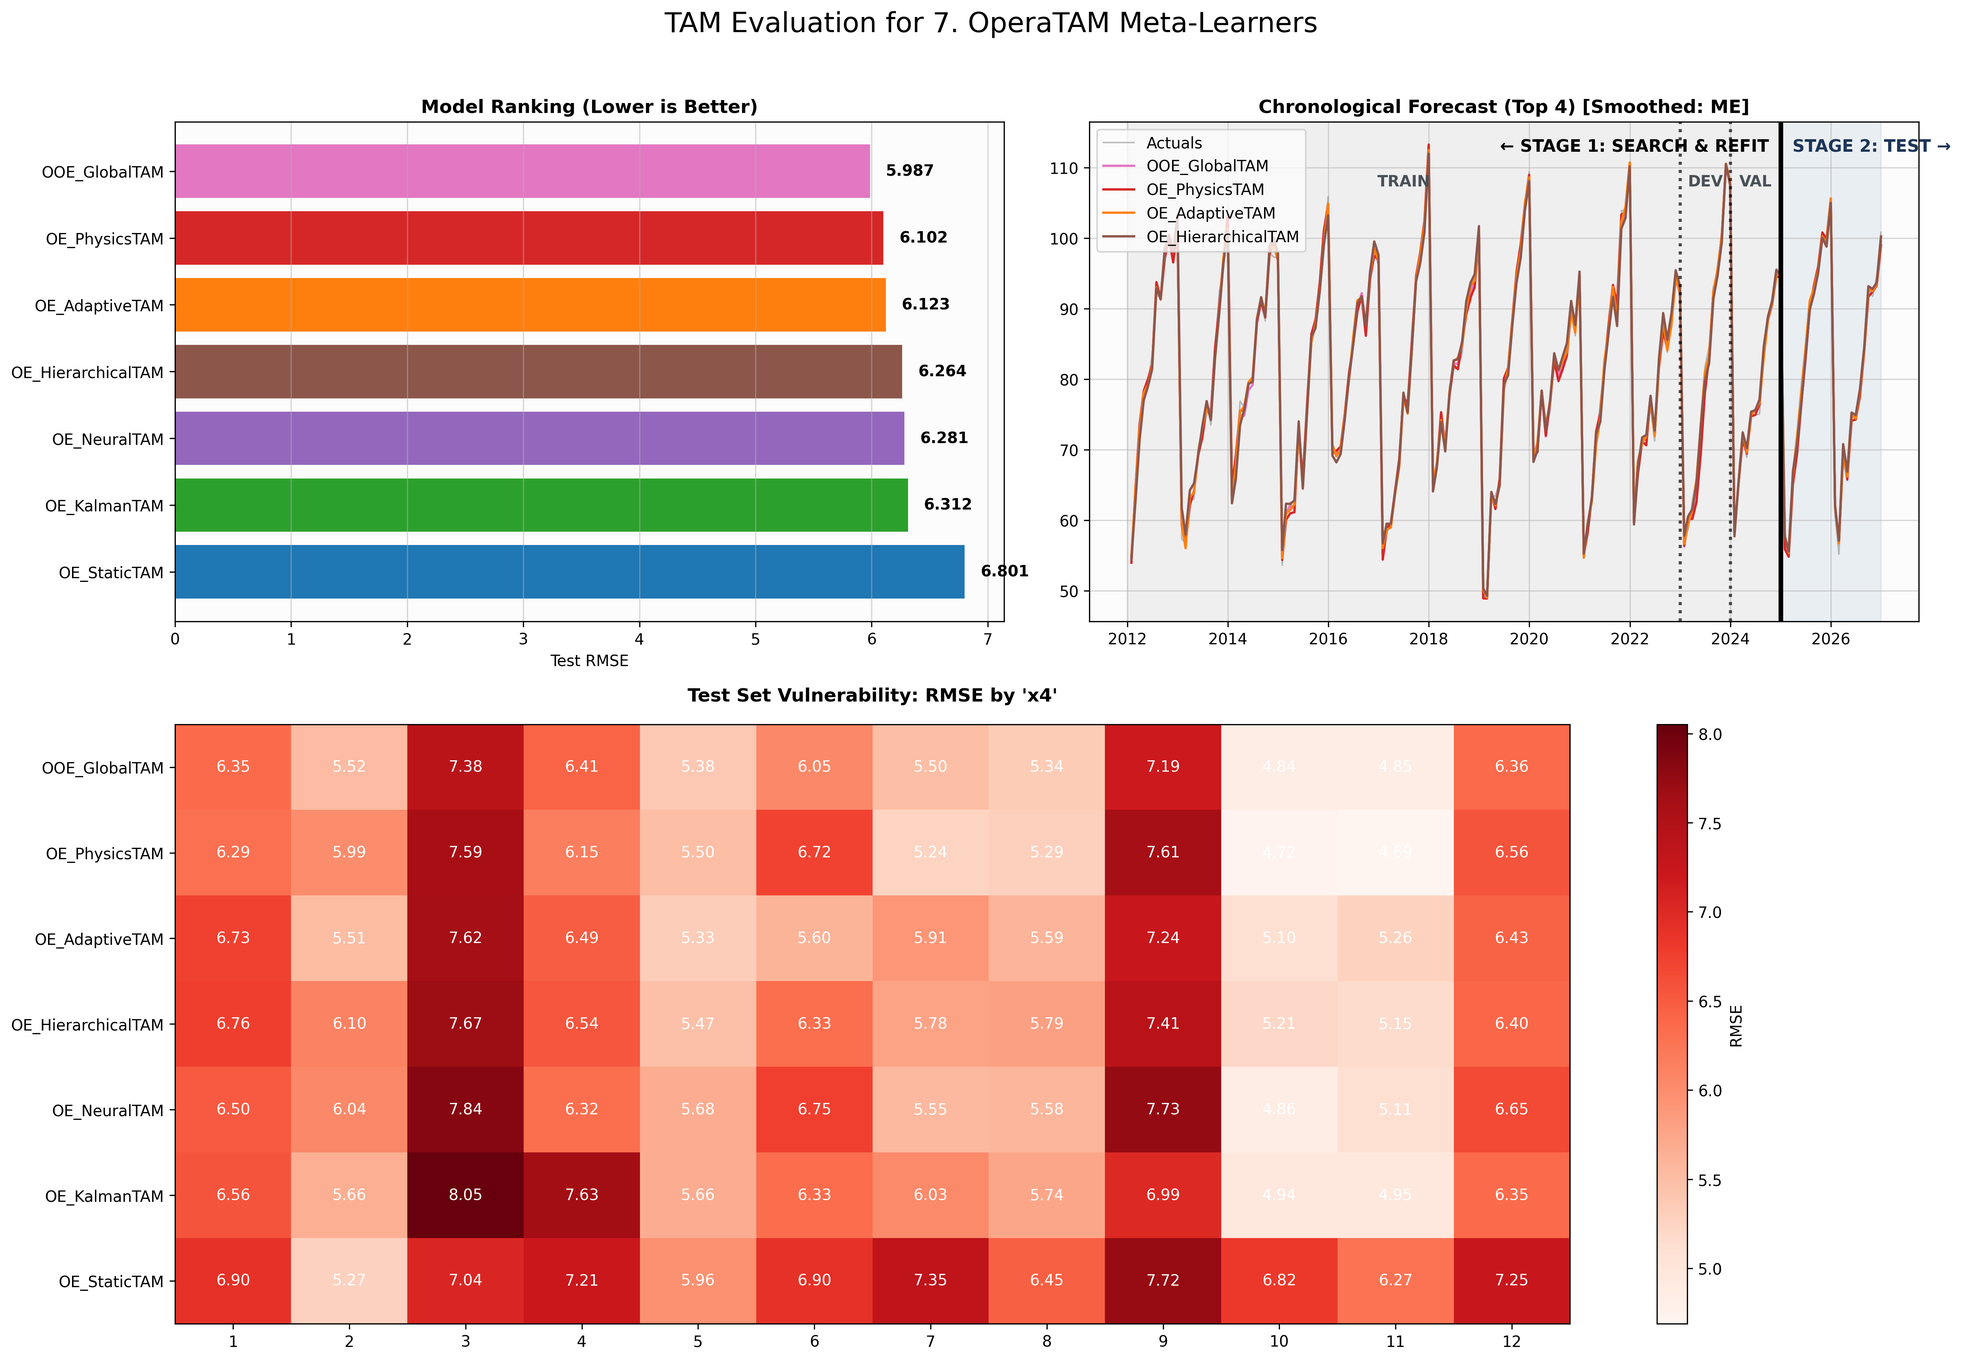
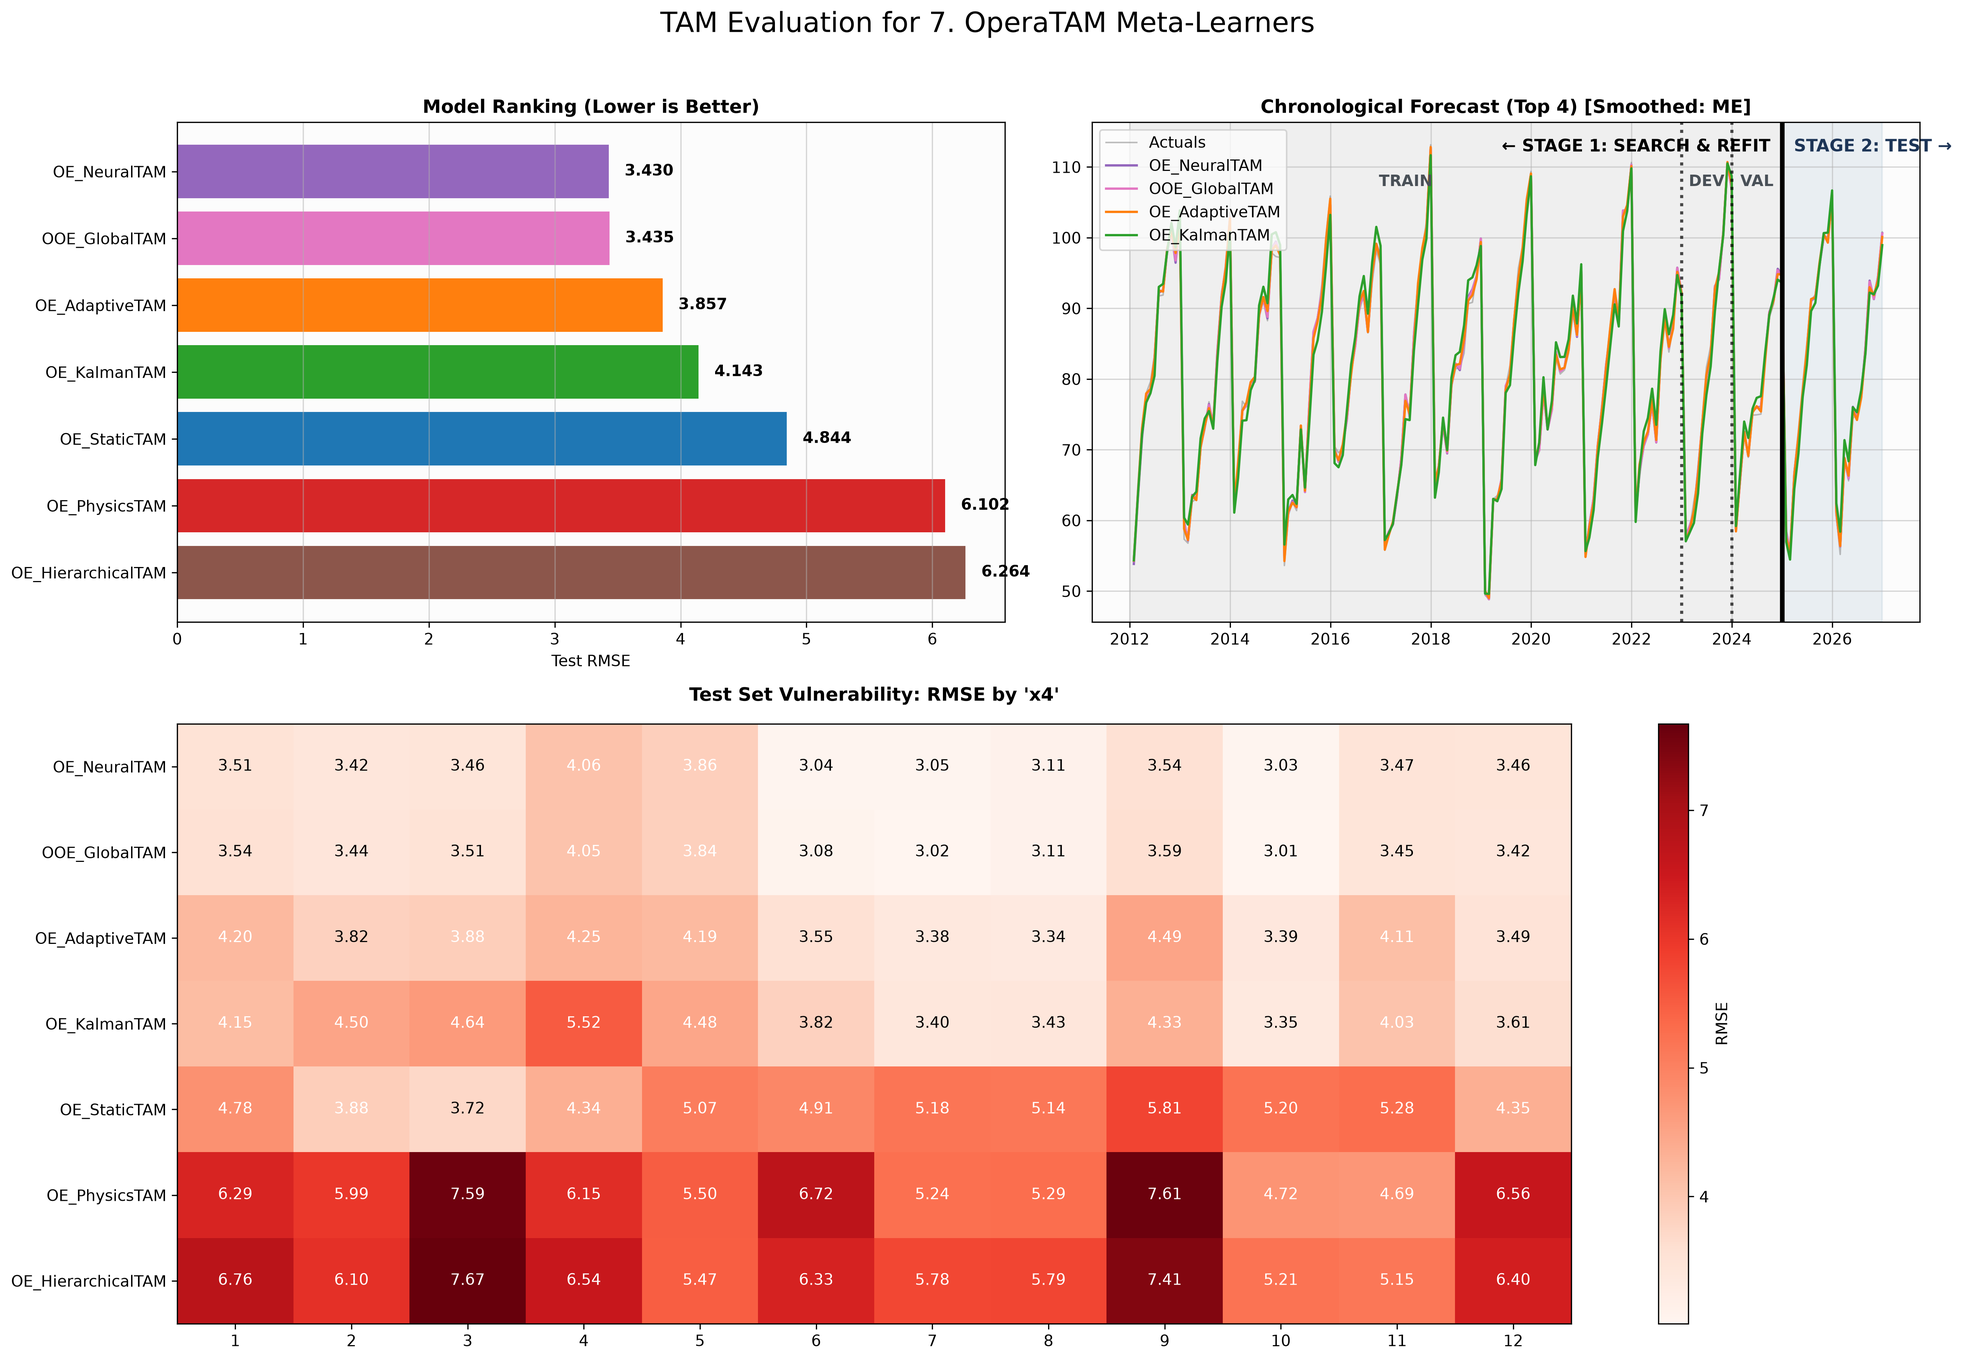
release: v1.3.1

diff --git a/src/tam/__init__.py b/src/tam/__init__.py
@@ -26,7 +26,7 @@ from .model.statistics import (
 from .evaluation.tracker import BenchmarkTracker
 from .common.plotting import plot_component
 
-__version__ = "1.3.0"
+__version__ = "1.3.1"
 
 __all__ = [
     "StaticTAM",

diff --git a/docs/source/conf.py b/docs/source/conf.py
@@ -20,7 +20,7 @@ copyright = (
 )
 
 author = 'Yann Allioux'
-release = '1.3.0'
+release = '1.3.1'
 
 # -- General Configuration ---------------------------------------------------
 extensions = [

diff --git a/CHANGELOG.md b/CHANGELOG.md
@@ -17,21 +17,41 @@ and this project adheres to [Semantic Versioning](https://semver.org/spec/v2.0.0
 ---
 ## [Unreleased]
 
+---
+
+## [1.3.1] - 2026-09-30
+
+Patch release: fixes that made some models wrong (formulas with `te()` or several features in one term) or not reproducible (`rbf()`, trees).
+
+**Predictions change** for the models below; everything else is identical to 1.3.0. To get the 1.3.0 behaviour: `pip install tam-ml==1.3.0`.
+
+### Results change
+- **Formulas with `te()` or several features in one term**: they were fitted with mislabelled terms and now fit the formula as written; their errors drop sharply, and the ensembles built on them follow. The THEORY benchmark and its figures are regenerated with 1.3.1.
+- **`auto_fit` (GCV)**: now fits exactly the model GCV selected. GCV minimises an in-sample criterion, not the holdout error, so holdout results move in both directions.
+- **`rbf()`**: centres are seeded and drawn from the whole training set; RBF models change once and are then reproducible.
+- **Trees on grouped data** (`t()`, `lt()` with `group_col`): splits and leaf counts come from the whole training set; results change, mostly for the better. Ungrouped trees do not change.
+- **NeuralTAM** (experimental): may change slightly in scripts that fit `rbf()` models before it, because both used to share the global torch random generator. A NeuralTAM fitted on its own after the same `torch.manual_seed` is unchanged.
+- Fixed-penalty models without these terms are identical to 1.3.0.
+
 ### Added
 - **`tam.plot_component(model, data, component, kind="auto")`**: plots one additive component with a view chosen from its dimension: a curve for one feature, one curve per level for `te(x, c)`, a 3D surface (or `kind="heatmap"` with the observed points overlaid) for `te(x1, x2)`, evaluated on a regular grid for one group (`group=`, default the most frequent), a 3D scatter coloured by the contribution for `te(x1, x2, x3)`. Rows with a non-finite contribution are skipped.
 - **`tam.common.plotting.resolve_component(model, feature, component=None, color_by=None)`**: the component a feature maps to under the new decomposition names.
+- **`rbf(x, ..., seed=42)`**: seed of the centre sampling (default 42, like `n()` and `t()`).
 
 ### Fixed
-- **Trees and RBF centres were initialised on a memory probe, not on the training data** (`t()`, `lt()`, `rbf()`): their data-dependent state was set by the first design matrix built, which is the solver's size probe (one row per group). With 48 half-hourly groups, quantile splits came from 48 points and the `sp_alpha` leaf counts summed to 48 × n_trees instead of every training row; `rbf()` centres were drawn from those 48 points. `StaticTAM` now calls `initialize_effects()` on the full training tensor before any design matrix; a probe or a later chunk never changes that state. **Tree, linear-tree and RBF predictions change** (grouped models the most); ungrouped models were already initialised on the full data, except for the `sp_alpha` counts.
-- **`rbf()` centres were not reproducible**: they were drawn from the global torch generator, so an RBF model changed with whatever code ran before it (two identical fits could differ). `rbf(x, ..., seed=42)` now seeds a local generator (default 42, like `n()` and `t()`), and fitting no longer touches the global random state. **RBF predictions change once** (new, fixed centres).
+- **Terms renamed by position** (`StaticTAM._prepare_data`): each effect's `feature_name` was overwritten from the deduplicated feature list by position, so with a `te()` or several features in one term, the effects after it were relabelled (e.g. `c(day_type_week)` became `toy`) and **the fitted model changed**, not only the labels (e.g. a national-load model with `te(temperature, toy)`: test RMSE 3254 → 2432). The renaming is removed. `decompose_prediction` names components with the new `decomposition_names()`: unique feature names are kept, collisions get a basis prefix (`s_x`, `l_x`), and a collision that remains (two `te()` over the same features) gets an occurrence suffix, so no contribution overwrites another.
 - **Plotting helpers after the renaming fix**: `plot_effect_with_model_and_data` and `plot_effect_with_data_decomposed` raised `KeyError: 'effect_x1'` for a feature inside a `te()` or used by several effects. They now resolve the feature to its component: the only one using it, the tensor product whose other margin is `color_by`, or the new `component=` argument; a still-ambiguous feature raises a `ValueError` listing the candidates. Single-component features plot exactly as before.
+- **`add_base_effects` in AdaptiveTAM and KalmanTAM**: the base model's components were added as `l(effect_<feature>)`, a name that does not exist when two effects share a feature (`s(x) + l(x)` gives `effect_s_x`, `effect_l_x`), so the model crashed with a `KeyError`; and with a `te()`, the renaming bug above fed mislabelled components. The components are now added under their `decomposition_names()` columns.
+- **GCV scored a different penalty from the one it stored** (`auto_fit`, `smart_solve_gcv`): each trial rescaled a block that already carried the formula's own weight, so the search scored λ_formula × λ_GCV but stored λ_GCV alone; a later `fit()` on the selected weights returned a different model, and with the default `ap=-9` the nine highest decades of the search range were unreachable. Each trial block is now rebuilt by the effect at λ = 10^α, exactly as `fit()` assembles it; the trial weight is restored even if the search raises, and the initial alphas are clipped to the bounds. **Models selected by `auto_fit` change**.
+- **GCV scored a slightly different system from the one fitted** (`auto_fit`): the solver adds a ridge floor `1e-6·n·I`, GCV added `1e-6·I`. Both now use one helper (`_ridge_floor`), so the selected penalties are scored on the model `fit()` returns; a negative residual sum of squares from rounding is clamped at 0 instead of folded with `abs()`. Penalties below `ap = -6` are dominated by that floor (documented). **Models selected by `auto_fit` can change**; fixed-penalty fits do not.
+- **Trees and RBF centres were initialised on a memory probe, not on the training data** (`t()`, `lt()`, `rbf()`): their data-dependent state was set by the first design matrix built, which is the solver's size probe (one row per group). With 48 half-hourly groups, quantile splits came from 48 points and the `sp_alpha` leaf counts summed to 48 × n_trees instead of every training row; `rbf()` centres were drawn from those 48 points. `StaticTAM` now calls `initialize_effects()` on the full training tensor before any design matrix; a probe or a later chunk never changes that state. **Tree, linear-tree and RBF predictions change for grouped models**; ungrouped trees were already initialised on the full data and do not change (ungrouped `rbf()` changes through its new seed only).
+- **`rbf()` centres were not reproducible**: they were drawn from the global torch generator, so an RBF model changed with whatever code ran before it (two identical fits could differ). `rbf(x, ..., seed=42)` now seeds a local generator, and fitting no longer touches the global random state. **RBF predictions change once** (new, fixed centres).
 - **Sparsity-adaptive tree penalty** (`t(..., sp_alpha>0)`): `empirical_counts` summed only the first batch axis, so the leaf-density penalty was built from the wrong counts and could not be formed. It now counts every sample and group, one value per leaf in design-matrix order.
 - **Linear tree weight** (`lt()`): assigning `lambda_p` (as GCV does on every candidate) did not reach the intercept tree and the slope surface, so GCV could not tune `lt()`. The weight now propagates to both sub-blocks.
-- **GCV scored a different penalty from the one it stored** (`auto_fit`, `smart_solve_gcv`): each trial rescaled a block that already carried the formula's own weight, so the search scored λ_formula × λ_GCV but stored λ_GCV alone; a later `fit()` on the selected weights returned a different model, and with the default `ap=-9` the nine highest decades of the search range were unreachable. Each trial block is now rebuilt by the effect at λ = 10^α, exactly as `fit()` assembles it; the trial weight is restored even if the search raises, and the initial alphas are clipped to the bounds. **Models selected by `auto_fit` change**.
-- **Terms renamed by position** (`StaticTAM._prepare_data`): each effect's `feature_name` was overwritten from the deduplicated feature list by position, so with a `te()` or several features in one term, the effects after it were relabelled (e.g. `c(day_type_week)` became `toy`) and **the fitted model changed**, not only the labels (regression case with `te(temperature, toy)`: test RMSE 3254 → 2432). The renaming is removed. `decompose_prediction` names components with the new `decomposition_names()`: unique feature names are kept, collisions get a basis prefix (`s_x`, `l_x`), and a collision that remains (two `te()` over the same features) gets an occurrence suffix, so no contribution overwrites another. Plotting helpers that looked up `effect_<feature>` for a feature inside a `te()` need the new names (fixed separately).
-- **GCV scored a slightly different system from the one fitted** (`auto_fit`): the solver adds a ridge floor `1e-6·n·I`, GCV added `1e-6·I`. Both now use one helper (`_ridge_floor`), so the selected penalties are scored on the model `fit()` returns; a negative residual sum of squares from rounding is clamped at 0 instead of folded with `abs()`. Penalties below `ap = -6` are dominated by that floor (documented). **Models selected by `auto_fit` can change**; fixed-penalty fits do not.
 - **Dummy date overflow**: without `date_col`, the internal dummy date was spaced one day apart and ran past the year 2262 after ~95,000 rows, which overflows pandas 2.x nanosecond datetimes (pandas 3 tolerates it). It is now spaced one second apart.
-- **`add_base_effects` in AdaptiveTAM and KalmanTAM**: the base model's components were added as `l(effect_<feature>)`, a name that does not exist when two effects share a feature (`s(x) + l(x)` gives `effect_s_x`, `effect_l_x`), so the model crashed with a `KeyError`; and with a `te()`, the renaming bug above fed mislabelled components. The components are now added under their `decomposition_names()` columns.
+
+### Changed
+- **CI**: the test workflow runs on every push and pull request (any branch) and on demand, and checks `import tam` first on every Python version (3.10-3.14).
 
 ---
 ## [1.3.0] - 2026-09-06
@@ -205,6 +225,7 @@ This version introduced the Formula API and the first object-oriented refactorin
 ### Added
 * Initial project setup based on the original `weakl` v0.0.6 package.
 
+[1.3.1]: https://github.com/EDF-Lab/tam/releases/tag/v1.3.1
 [1.3.0]: https://github.com/EDF-Lab/tam/releases/tag/v1.3.0
 [1.2.6]: https://github.com/EDF-Lab/tam/releases/tag/v1.2.6
 [1.2.5]: https://github.com/EDF-Lab/tam/releases/tag/v1.2.5

diff --git a/THEORY.md b/THEORY.md
@@ -243,20 +243,20 @@ To demonstrate the framework's mathematical guarantees, we ran a comprehensive b
 
 We deployed the entire TAM spectrum (Static bases, Neural Networks, Physics operators) and wrapped them in all available Meta-Learners. Here is the final Test Set performance (ranked by **RMSE**):
 
-* 🥇 **`OOE_GlobalTAM`** (Test RMSE: **5.99**): The ultimate meta-learner. By using the `OperaTAM` algorithm to dynamically aggregate all sub-ensembles based on real-time regret, it successfully muted failing models and pushed the global error lower than any individual expert.
-* 🥈 **`OE_PhysicsTAM`** (Test RMSE: **6.10**): Explicit Domain Knowledge. By injecting the exact differential equation (PDE) of the Damped Harmonic Oscillator directly into the RKHS penalty matrix, it effortlessly extracted the true physical signal. 
-* 🥉 **`OE_AdaptiveTAM`** (Test RMSE: **6.12**): Sliding-window online learning. Proves that mapping base model residuals to a short-term adaptive memory effectively corrects sudden concept drift.
-* 🏅 **`OE_HierarchicalTAM`** (Test RMSE: **6.26**): Structural Coherence. Enforcing the strict top-down constraint ($Y = Y_A + Y_B$) during the global convex optimization prevented the sub-models from overfitting their local, partial noise.
-* 🏅 **`OE_NeuralTAM`** (Test RMSE: **6.28**): The Deep Learning Hybrid. The properly tuned Neural Networks (ReLU, Cos, Tanh) successfully mapped the high-frequency non-linear noise, proving highly effective when integrated into the TAM pipeline.
-* 🏅 **`OE_KalmanTAM`** (Test RMSE: **6.31**): The Extended Kalman Filter. By continuously tracking the parameter drift of the base models in a state-space formulation, it drastically stabilized predictions across the non-stationary test set. 
-* 🏅 **`OE_StaticTAM`** (Test RMSE: **6.80**): The pure Mathematical bases. Explicit continuous dictionaries (like Fourier, Splines, and Tensors) provided a fast, exact, and highly interpretable analytical baseline.
-* 🚧 **`E_AutoTAM_Champion`** (Test RMSE: **8.93**): **[BETA]** The AutoML meta-model is still under construction, but it already achieves near-human performance with 5 experts and a population size of 20.
+* 🥇 **`OE_NeuralTAM`** (Test RMSE: **3.43**): The Deep Learning Hybrid. The Neural Networks (ReLU, Cos, Tanh, and a neural interaction term) map the high-frequency non-linear noise and the interaction surface; aggregated by `OperaTAM`, they give the best sub-ensemble.
+* 🥈 **`OOE_GlobalTAM`** (Test RMSE: **3.43**): The ultimate meta-learner. By using the `OperaTAM` algorithm to dynamically aggregate all sub-ensembles based on real-time regret, it mutes the failing ones and matches the best sub-ensemble (3.435 vs 3.430) without knowing in advance which one it is.
+* 🥉 **`OE_AdaptiveTAM`** (Test RMSE: **3.86**): Sliding-window online learning. Mapping base model residuals to a short-term adaptive memory corrects sudden concept drift.
+* 🏅 **`OE_KalmanTAM`** (Test RMSE: **4.14**): The Extended Kalman Filter. By continuously tracking the parameter drift of the base models in a state-space formulation, it stabilizes predictions across the non-stationary test set.
+* 🏅 **`OE_StaticTAM`** (Test RMSE: **4.84**): The pure Mathematical bases. Explicit continuous dictionaries (Fourier, Splines, Tensors) provide a fast, exact, and highly interpretable analytical baseline. The tensor-product experts (`te()`) capture the interaction of the DGP since v1.3.1 (6.78 with v1.3.0, whose `te()` handling mislabelled the terms that followed it).
+* 🏅 **`OE_PhysicsTAM`** (Test RMSE: **6.10**): Explicit Domain Knowledge. By injecting the exact differential equation (PDE) of the Damped Harmonic Oscillator directly into the RKHS penalty matrix, it extracts the true physical signal; it has no interaction term, which explains its gap to the ensembles above.
+* 🏅 **`OE_HierarchicalTAM`** (Test RMSE: **6.26**): Structural Coherence. Enforcing the strict top-down constraint ($Y = Y_A + Y_B$) during the global convex optimization prevents the sub-models from overfitting their local, partial noise.
+* 🚧 **`E_AutoTAM_Champion`** (Test RMSE: **10.02**): **[BETA]** The AutoML meta-model is still under construction. This run uses the script's quick settings (1 expert, population of 2); 5 experts and a population of 20 do better, at a longer run time.
 
 ### 💡 Key Takeaways for Practitioners:
 
 1. **Topology Matters:** Choosing the correct mathematical basis (e.g., `phys()` for differential equations) provides a massive performance baseline. Furthermore, properly integrating neural layers (`n()`) helps capture complex residual interactions that classical models miss.
 2. **Drift is Inevitable (But Fixable):** Time-series data is inherently non-stationary. Wrapping your base models in **Adaptive** or **Kalman** drift-correction layers significantly reduces error. 
-3. **Trust the Aggregation:** You don't have to guess the perfect model. By feeding a diverse portfolio of expert models (Static, Neural, Physics) into **OperaTAM**, the algorithm's real-time regret bounds mathematically guarantee that the final ensemble will perform at least as well as the best individual expert.
+3. **Trust the Aggregation:** You don't have to guess the perfect model. By feeding a diverse portfolio of expert models (Static, Neural, Physics) into **OperaTAM**, the algorithm's real-time regret bounds guarantee that the final ensemble performs close to the best expert in hindsight (here `OOE_GlobalTAM` is within 0.2% of the best sub-ensemble, which it did not know in advance).
 
 ---
 

diff --git a/README.md b/README.md
@@ -2,7 +2,7 @@
 
 [🧪 `EXAMPLES`](EXAMPLES.md) | [📚 `THEORY`](THEORY.md) | [📄 `JOSS PAPER`](paper.md)
   
-**Version:** 1.3.0  
+**Version:** 1.3.1  
 **License:** LGPL-3.0-or-later.  
 **Copyright (c):** 2023-2026 EDF (Electricité De France).  
 **Copyright (c):** 2023-2025 Sorbonne Université.  
@@ -167,10 +167,10 @@ If you use these packages in your research, please cite them using their permane
 **TAM**
 ```bibtex
 @misc{tam2026package,
-  title={TAM: Time series Additive Model (v1.3.0)},
+  title={TAM: Time series Additive Model (v1.3.1)},
   author={Allioux, Yann and Goude, Yannig},
   year={2026},
-  doi={10.5281/zenodo.22544995},
+  doi={10.5281/zenodo.23070877},
   note={With foundational WeaKL research by Nathan Doumèche, and tensorisation and adaptive model contributions by Éloi Bedek}
 }
 ```
